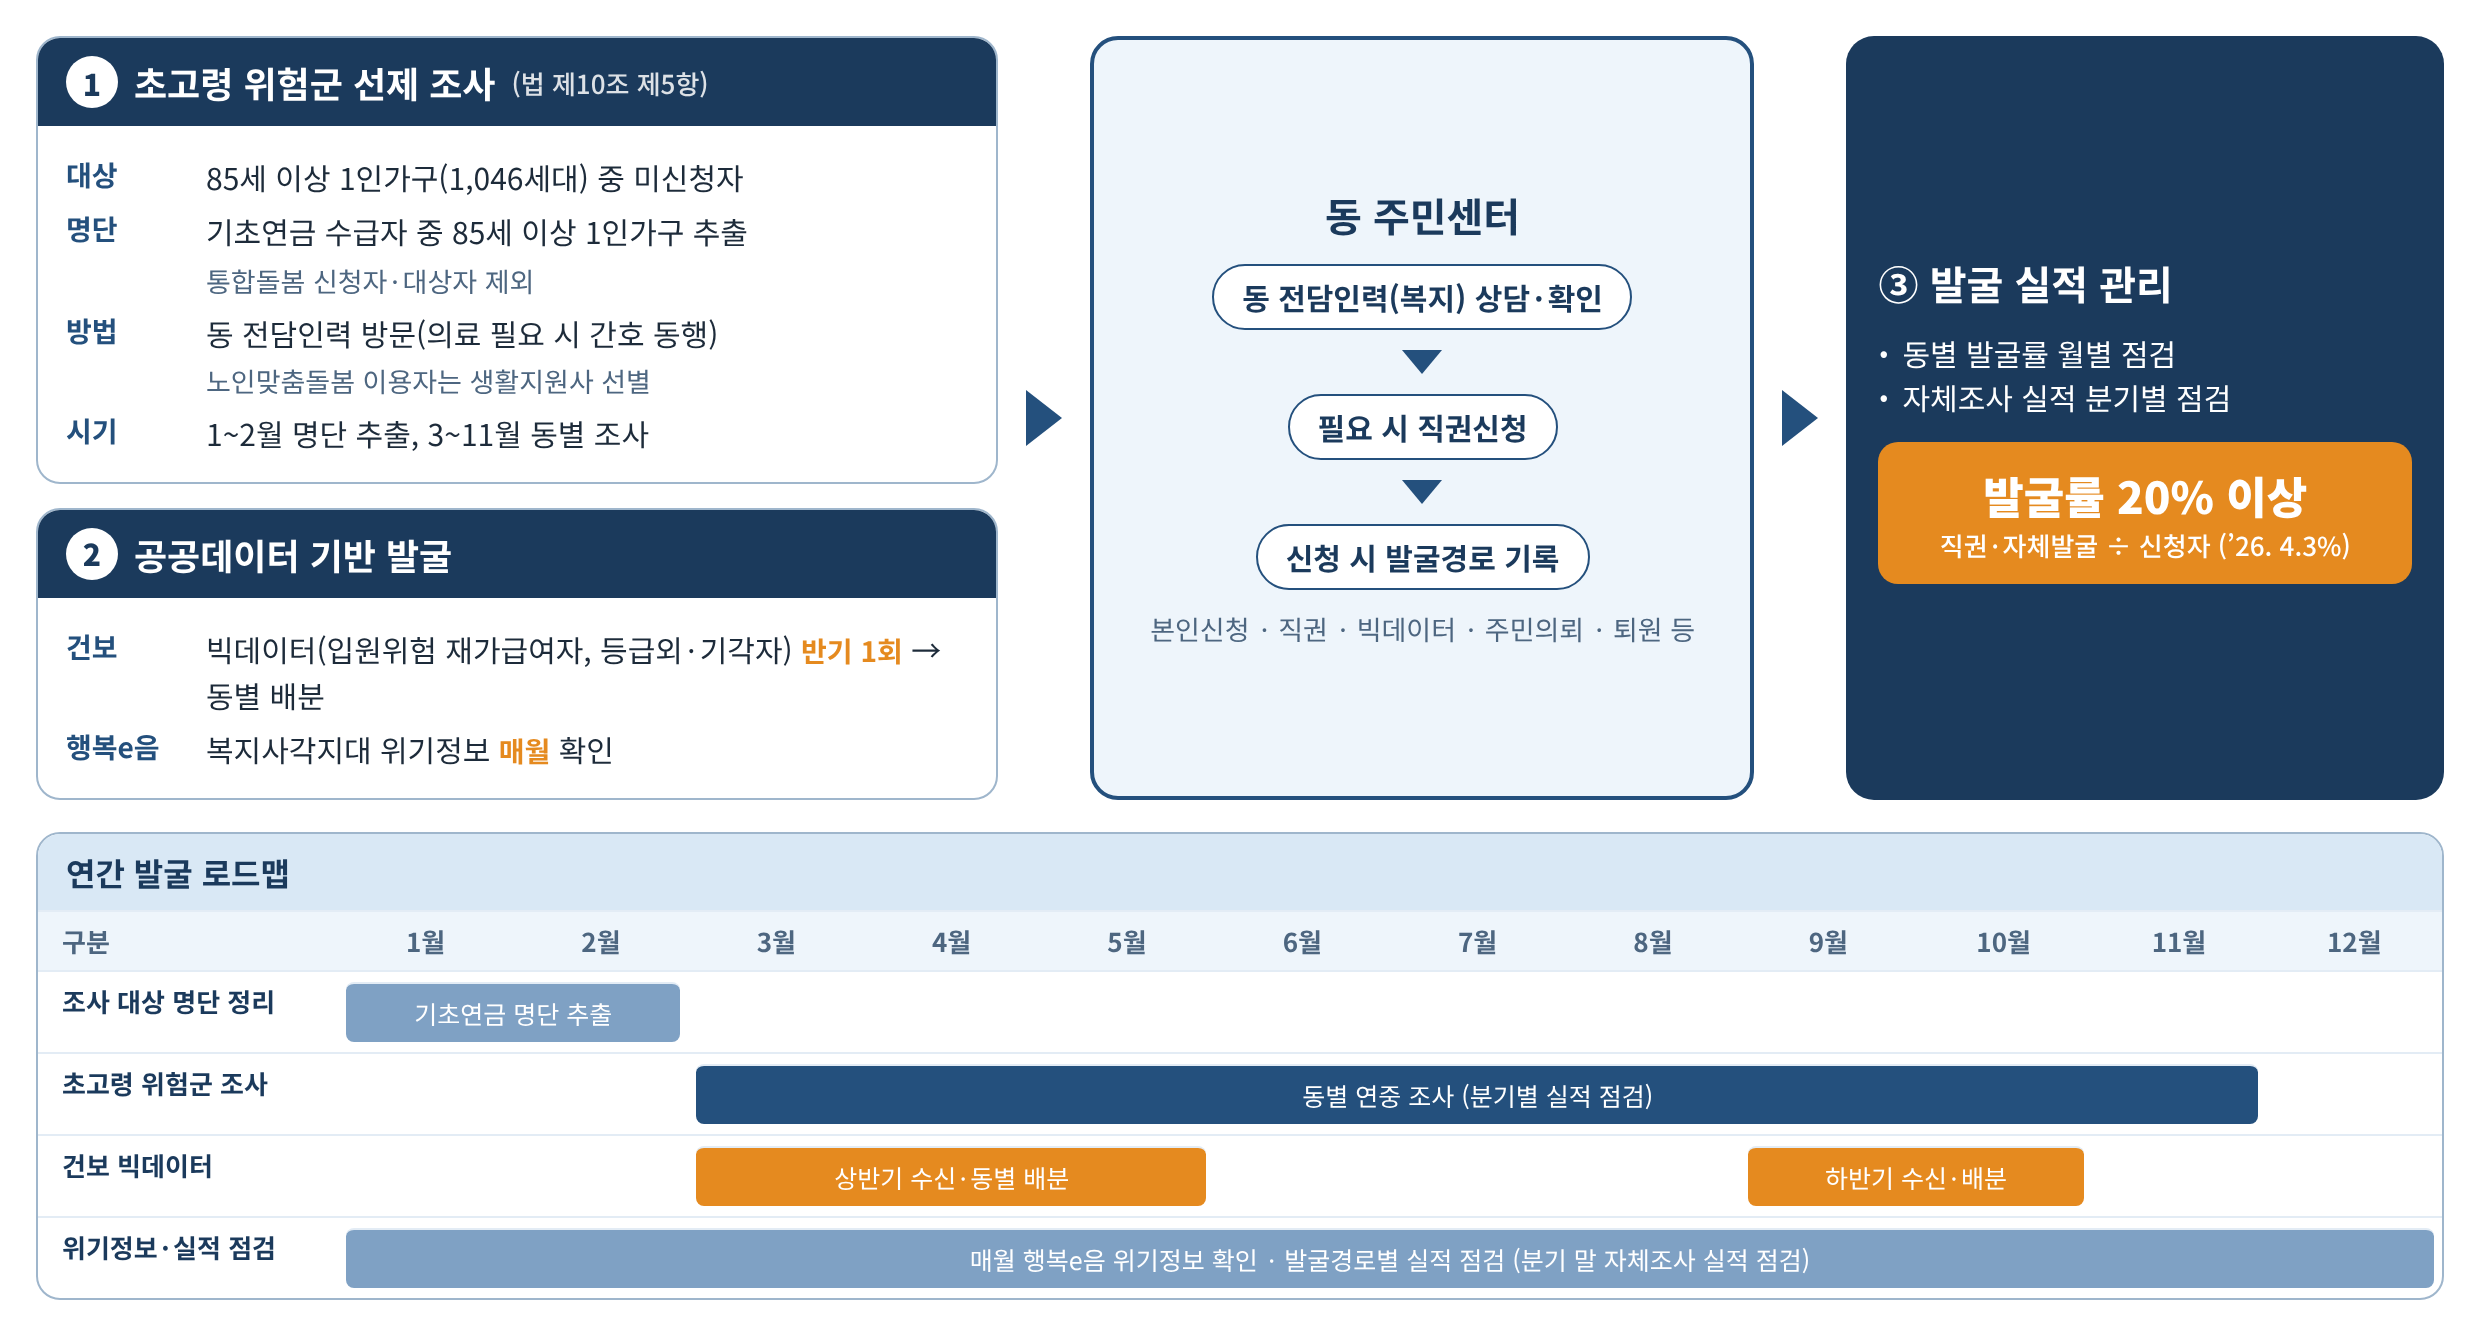
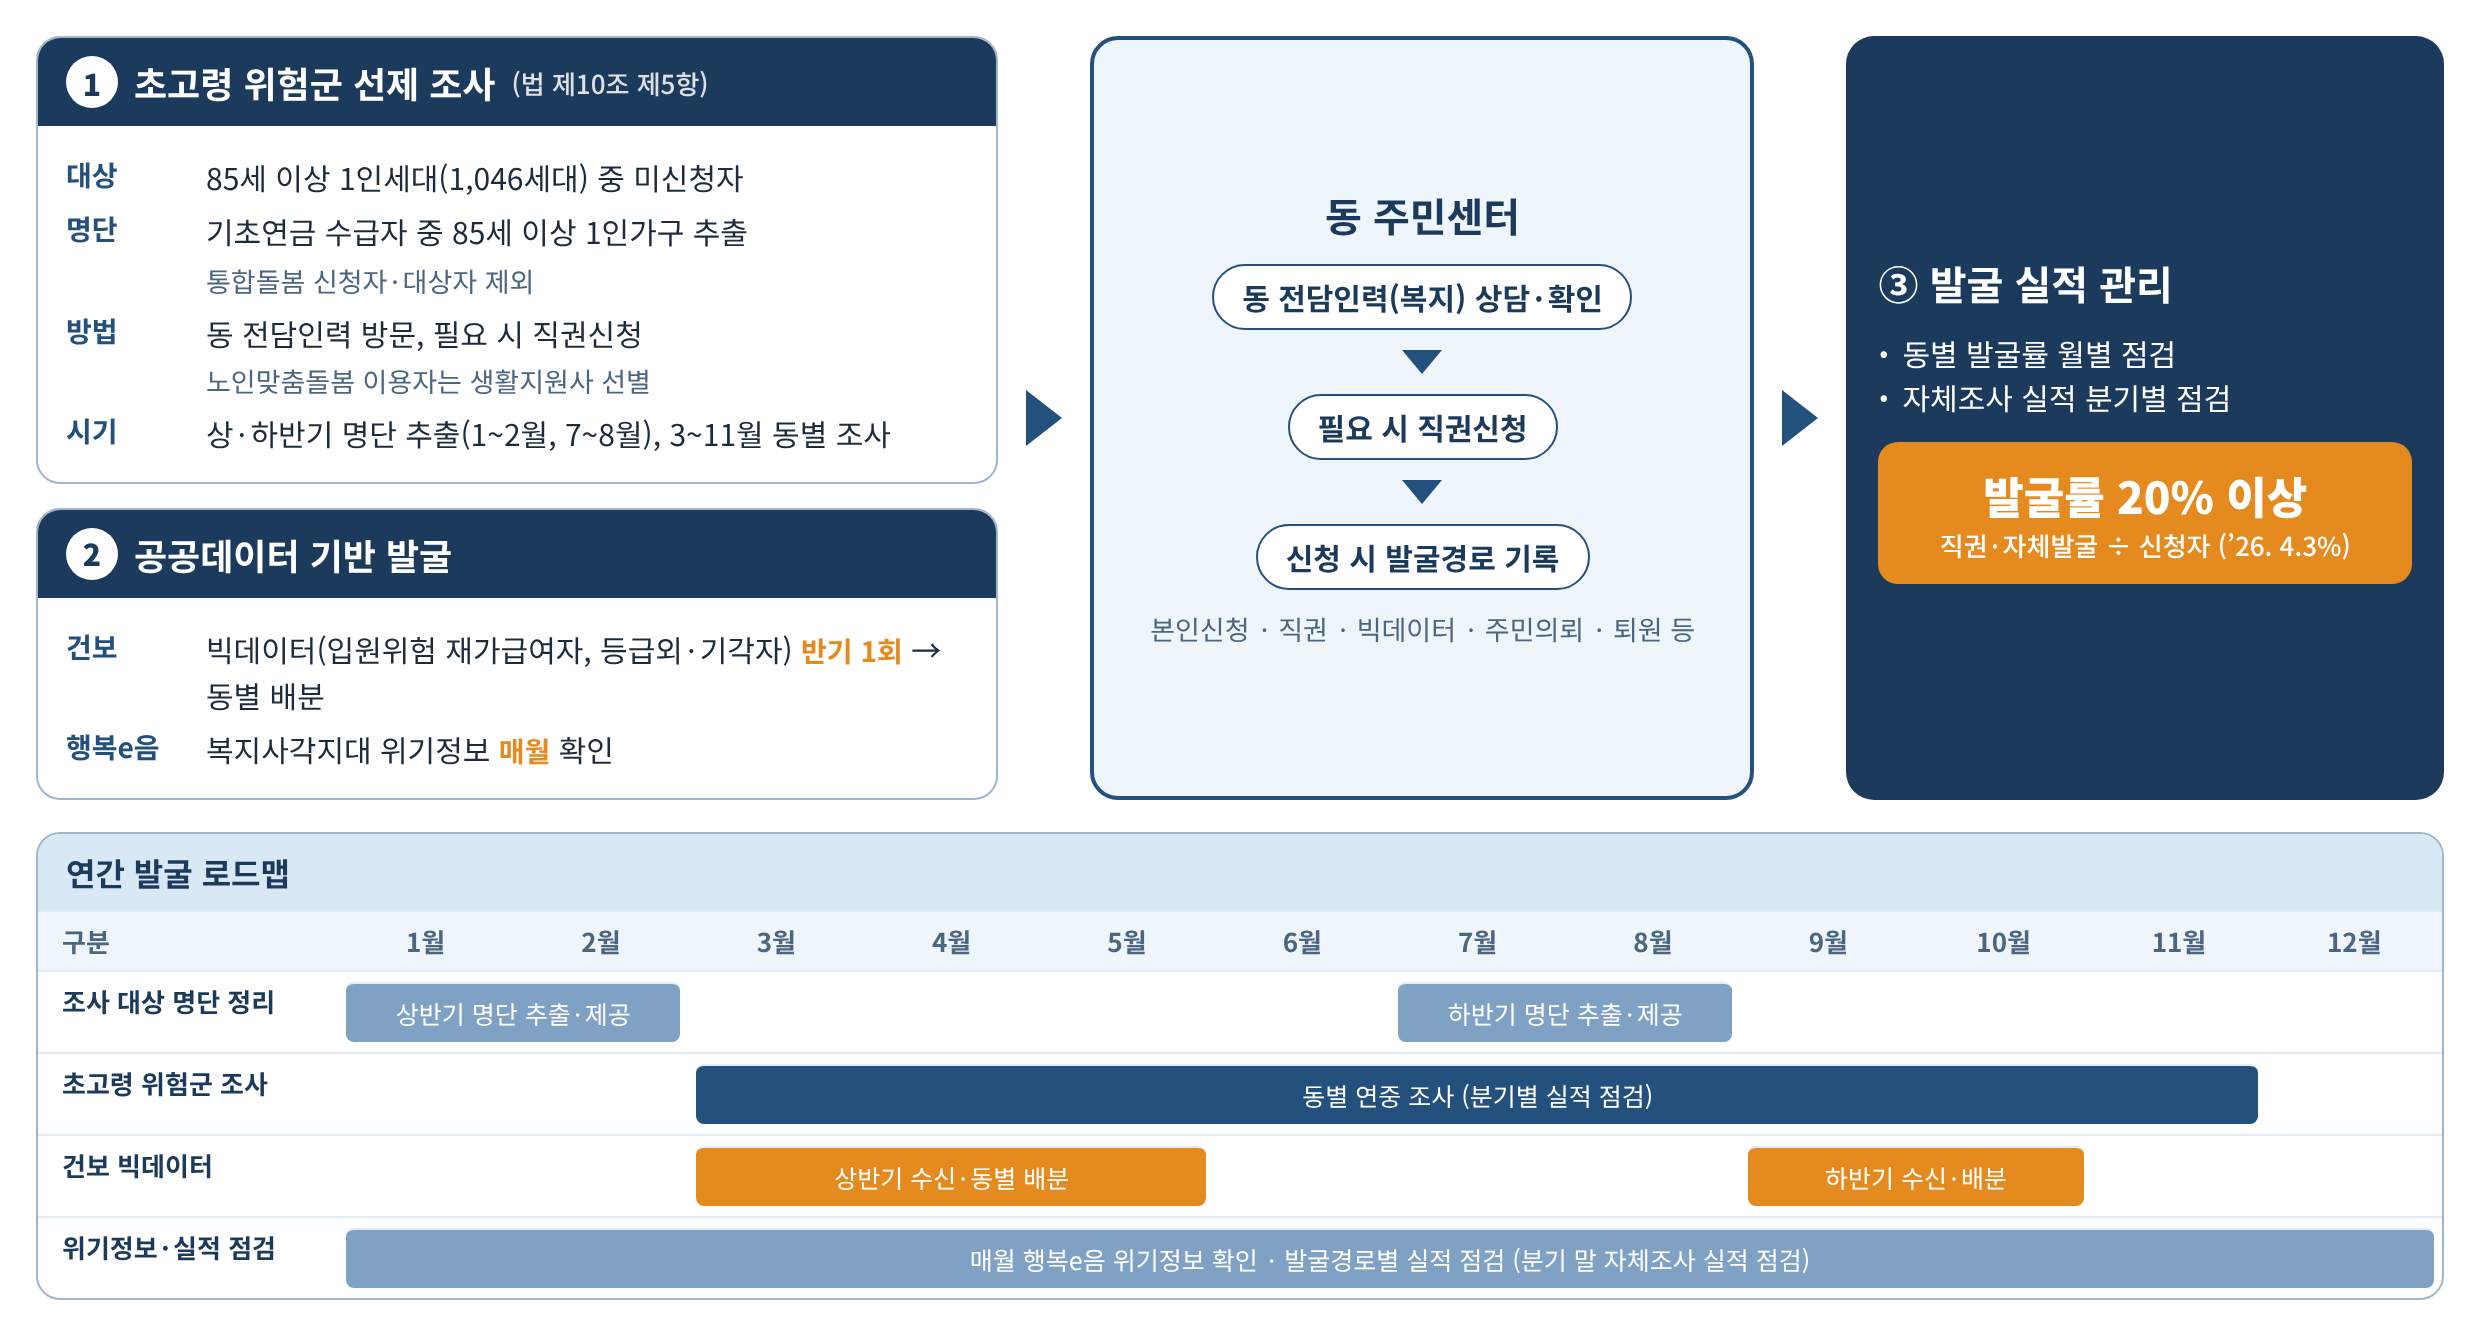
Split survey list extraction into half-year cycles in roadmap figures
Claude-Session: https://claude.ai/code/session_01Rws36rz6FMs9qvhqTvH8uK

diff --git a/docs/uiwang-2027-plan/figures/src/discover.html b/docs/uiwang-2027-plan/figures/src/discover.html
@@ -43,10 +43,10 @@ body{font-family:'Noto Sans KR',sans-serif;color:var(--text);background:#fff;pad
     <div class="card">
       <div class="top"><span class="n">1</span>초고령 위험군 선제 조사<span style="font-size:13px;font-weight:500;opacity:.85">(법 제10조 제5항)</span></div>
       <div class="body">
-        <div class="row"><b>대상</b><span>85세 이상 1인가구(1,046세대) 중 미신청자</span></div>
+        <div class="row"><b>대상</b><span>85세 이상 1인세대(1,046세대) 중 미신청자</span></div>
         <div class="row"><b>명단</b><span>기초연금 수급자 중 85세 이상 1인가구 추출<br><span class="small">통합돌봄 신청자·대상자 제외</span></span></div>
-        <div class="row"><b>방법</b><span>동 전담인력 방문(의료 필요 시 간호 동행)<br><span class="small">노인맞춤돌봄 이용자는 생활지원사 선별</span></span></div>
-        <div class="row"><b>시기</b><span>1~2월 명단 추출, 3~11월 동별 조사</span></div>
+        <div class="row"><b>방법</b><span>동 전담인력 방문, 필요 시 직권신청<br><span class="small">노인맞춤돌봄 이용자는 생활지원사 선별</span></span></div>
+        <div class="row"><b>시기</b><span>상·하반기 명단 추출(1~2월, 7~8월), 3~11월 동별 조사</span></div>
       </div>
     </div>
     <div class="card">
@@ -82,7 +82,7 @@ body{font-family:'Noto Sans KR',sans-serif;color:var(--text);background:#fff;pad
   <div class="h">연간 발굴 로드맵</div>
   <div class="grid">
     <div class="lab m">구분</div><div class="m">1월</div><div class="m">2월</div><div class="m">3월</div><div class="m">4월</div><div class="m">5월</div><div class="m">6월</div><div class="m">7월</div><div class="m">8월</div><div class="m">9월</div><div class="m">10월</div><div class="m">11월</div><div class="m">12월</div>
-    <div class="lab">조사 대상 명단 정리</div><div style="grid-column:span 2"><div class="b b3">기초연금 명단 추출</div></div><div style="grid-column:span 10"></div>
+    <div class="lab">조사 대상 명단 정리</div><div style="grid-column:span 2"><div class="b b3">상반기 명단 추출·제공</div></div><div style="grid-column:span 4"></div><div style="grid-column:span 2"><div class="b b3">하반기 명단 추출·제공</div></div><div style="grid-column:span 4"></div>
     <div class="lab">초고령 위험군 조사</div><div style="grid-column:span 2"></div><div style="grid-column:span 9"><div class="b">동별 연중 조사 (분기별 실적 점검)</div></div><div></div>
     <div class="lab">건보 빅데이터</div><div style="grid-column:span 2"></div><div style="grid-column:span 3"><div class="b b2">상반기 수신·동별 배분</div></div><div style="grid-column:span 3"></div><div style="grid-column:span 2"><div class="b b2">하반기 수신·배분</div></div><div style="grid-column:span 2"></div>
     <div class="lab">위기정보·실적 점검</div><div style="grid-column:span 12"><div class="b b3">매월 행복e음 위기정보 확인 · 발굴경로별 실적 점검 (분기 말 자체조사 실적 점검)</div></div>

diff --git a/docs/uiwang-2027-plan/figures/src/roadmap.html b/docs/uiwang-2027-plan/figures/src/roadmap.html
@@ -42,7 +42,7 @@ body{font-family:'Noto Sans KR',sans-serif;color:var(--text);background:#fff;pad
   <div class="h">연간 발굴 로드맵</div>
   <div class="grid">
     <div class="lab m">구분</div><div class="m">1월</div><div class="m">2월</div><div class="m">3월</div><div class="m">4월</div><div class="m">5월</div><div class="m">6월</div><div class="m">7월</div><div class="m">8월</div><div class="m">9월</div><div class="m">10월</div><div class="m">11월</div><div class="m">12월</div>
-    <div class="lab">조사 대상 명단 정리</div><div style="grid-column:span 2"><div class="b b3">기초연금 명단 추출</div></div><div style="grid-column:span 10"></div>
+    <div class="lab">조사 대상 명단 정리</div><div style="grid-column:span 2"><div class="b b3">상반기 명단 추출·제공</div></div><div style="grid-column:span 4"></div><div style="grid-column:span 2"><div class="b b3">하반기 명단 추출·제공</div></div><div style="grid-column:span 4"></div>
     <div class="lab">초고령 위험군 조사</div><div style="grid-column:span 2"></div><div style="grid-column:span 9"><div class="b">동별 연중 조사 (분기별 실적 점검)</div></div><div></div>
     <div class="lab">건보 빅데이터</div><div style="grid-column:span 2"></div><div style="grid-column:span 3"><div class="b b2">상반기 수신·동별 배분</div></div><div style="grid-column:span 3"></div><div style="grid-column:span 2"><div class="b b2">하반기 수신·배분</div></div><div style="grid-column:span 2"></div>
     <div class="lab">위기정보·실적 점검</div><div style="grid-column:span 12"><div class="b b3">매월 행복e음 위기정보 확인 · 발굴경로별 실적 점검 (분기 말 자체조사 실적 점검)</div></div>
